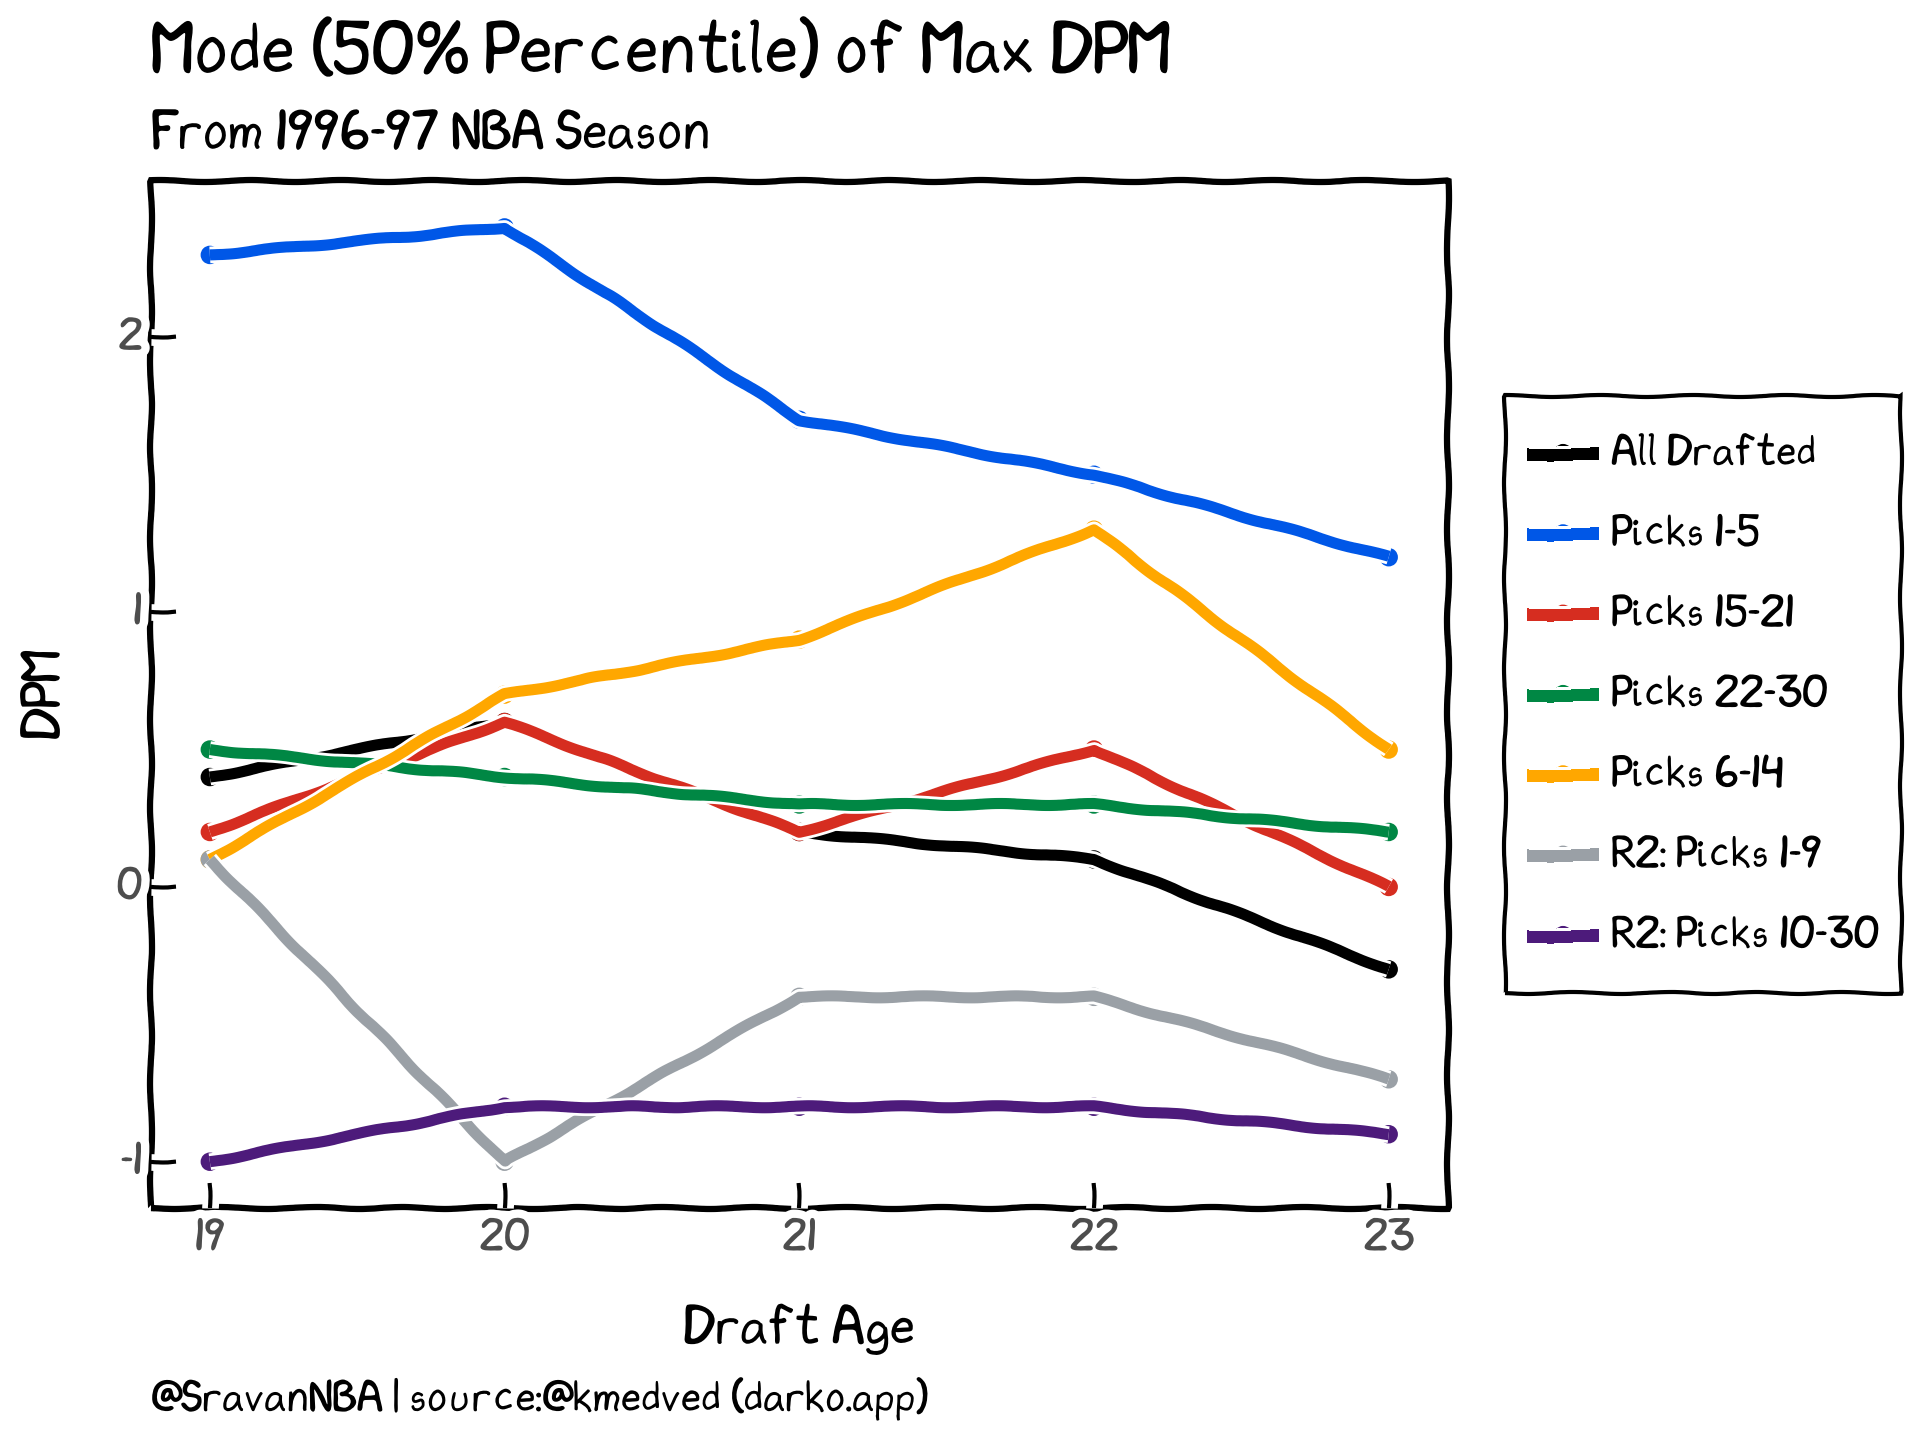
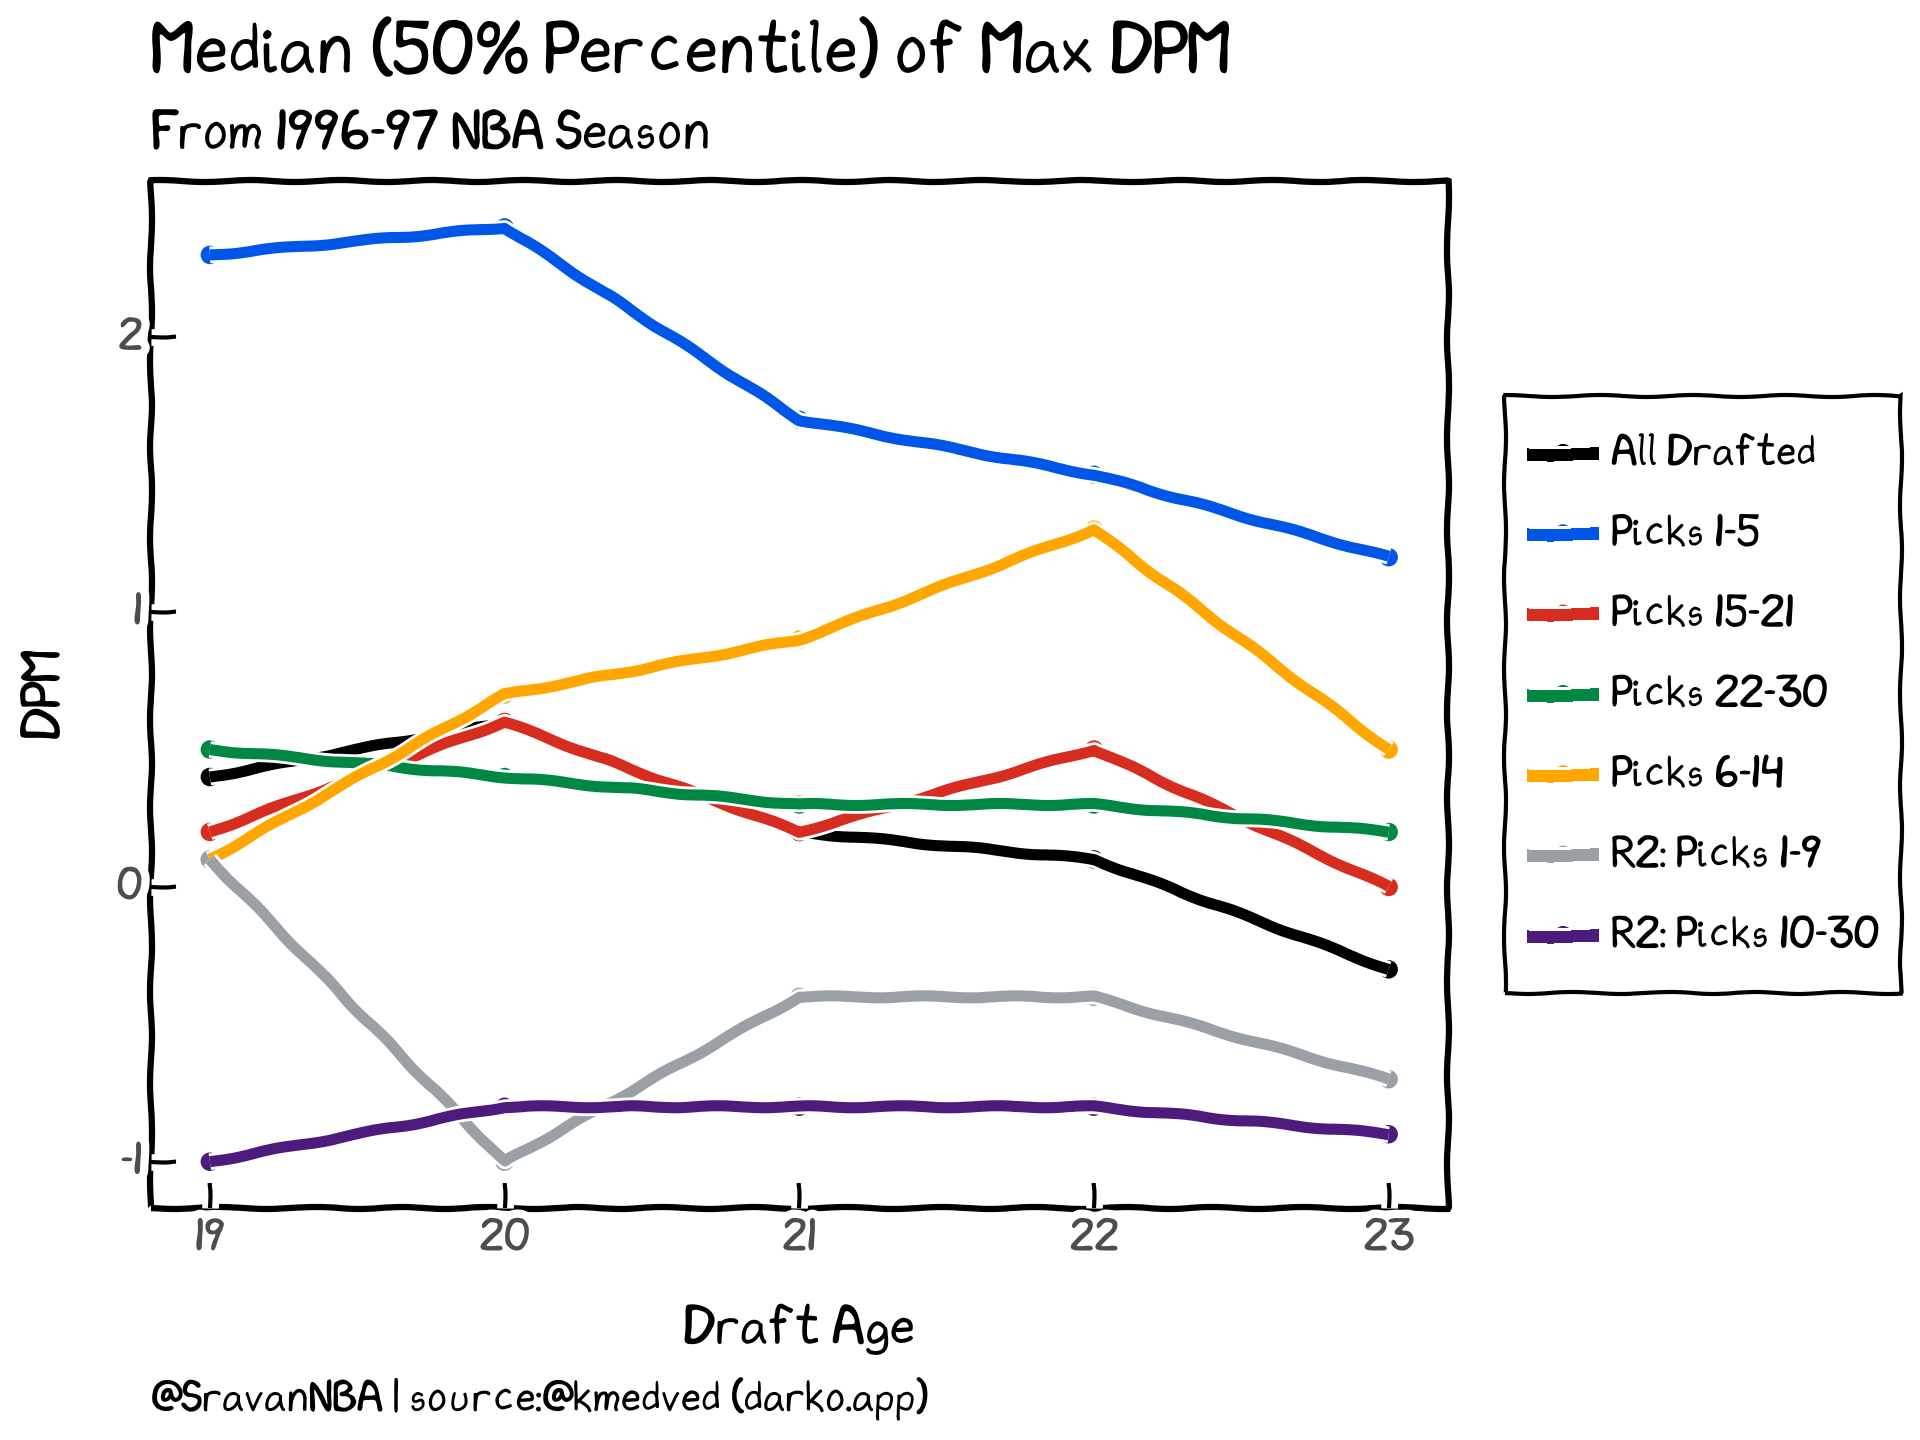
change mode to median

Changed region(s): [[0.0938, 0.0, 0.6562, 0.0625]]

diff --git a/content/posts/nba-draft-age-1/index.md b/content/posts/nba-draft-age-1/index.md
@@ -71,7 +71,7 @@ The table below shows detailed stats of the same information. The percentages sh
 |  5 |          23 |     134 |    157 |     1 |    59 |   116 |   244 |   539 |   130 |
 
 
-We can see that the mode(50th percentile) game # to reach positive DPM for all ages is very similar, ranging from 100-116 games. This means a player can be a positive player within 1.5 seasons of their career in the NBA. The 25th percentile values show that 19-year-olds first took 38 games. 23-year-olds are slowest here, taking 59 games. 75th percentile values take anywhere between 185 to 244 games, which turns out to be in the 3rd season of NBA careers.
+We can see that the median(50th percentile) game # to reach positive DPM for all ages is very similar, ranging from 100-116 games. This means a player can be a positive player within 1.5 seasons of their career in the NBA. The 25th percentile values show that 19-year-olds first took 38 games. 23-year-olds are slowest here, taking 59 games. 75th percentile values take anywhere between 185 to 244 games, which turns out to be in the 3rd season of NBA careers.
 So, 75% of drafted NBA players turn out to be positive players within three seasons. This result is so interesting to me because of this take I have had for so many years now:
 > I always say that we have to take at least 3 years to decide whether a young player is good or not. I evaluate young players only after they spend 3 seasons in the NBA.
 
@@ -120,9 +120,9 @@ The table below shows detailed stats of the same information. The percentages sh
 |  4 |          22 |     293 |    0.4 |  -2.8 |  -1   |   0.1 |   1.4 |  10.4 |   1.8 |
 |  5 |          23 |     319 |   -0.1 |  -3.3 |  -1.3 |  -0.3 |   0.8 |   6.5 |   1.6 |
 
-The mode (50% percentile) is highest for 20-year-olds with a value of 0.6. Otherwise, the mode for max DPM decreases with age 19-23 years, with only 23-year-olds having a negative value. We can also see that the variance in maximum DPM decreases with age. That is, younger drafted players have a higher variability in peak performance than older drafted players. This makes sense as young players come into the league raw and generally have to be developed to reach their peak performance. Meanwhile, older players come into the league more polished, having spent their developmental years in college/elsewhere, and their development in the league is minimal.
+The median (50% percentile) is highest for 20-year-olds, with a value of 0.6. Otherwise, the median for max DPM decreases with age 19-23 years, with only 23-year-olds having a negative value. We can also see that the variance in maximum DPM decreases with age. That is, younger drafted players have a higher variability in peak performance than older drafted players. This makes sense as young players come into the league raw and generally have to be developed to reach their peak performance. Meanwhile, older players come into the league more polished, having spent their developmental years in college/elsewhere, and their development in the league is minimal.
 
-Now we look at the mode (50% percentile) of maximum DPM sorted by Pick numbers as we did in previous sections:
+Now we look at the median (50% percentile) of maximum DPM sorted by Pick numbers as we did in previous sections:
 
 <img src="./nba_draft_age_5.png" width="640" height="480">
 
